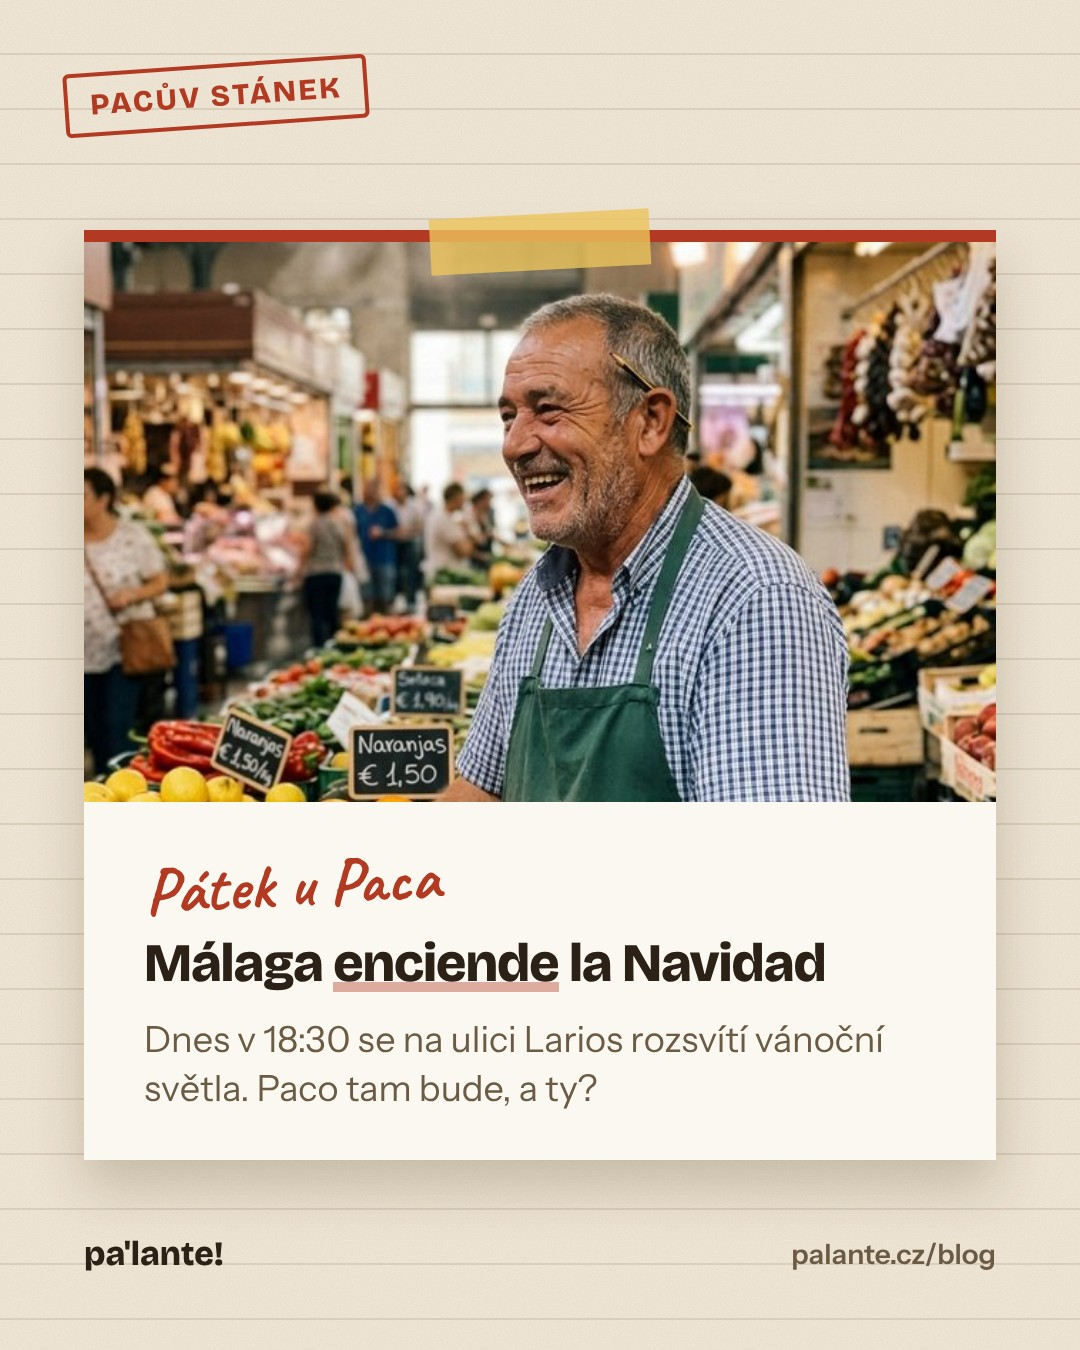
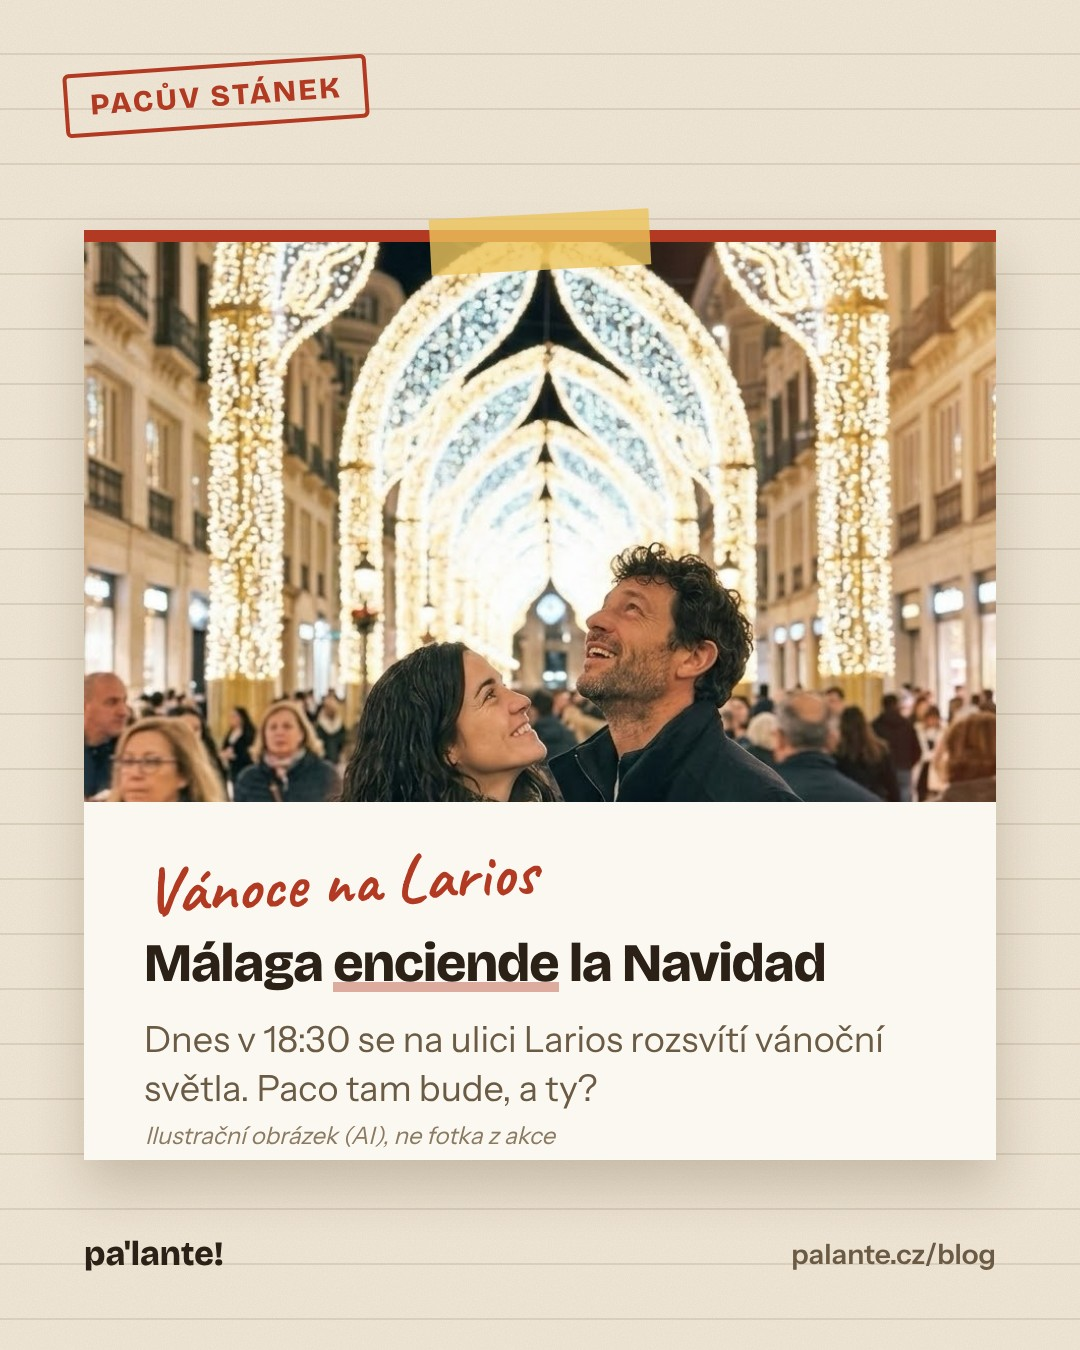
Vánoční článek: ilustrace Lucía a Rafa, nový obrázek pro sítě 27. 11.
Claude-Session: https://claude.ai/code/session_01VjxZctY8hW15fJ29jtMPQw

diff --git a/blog/malaga-rozsviti-vanoce-calle-larios-2026.html b/blog/malaga-rozsviti-vanoce-calle-larios-2026.html
@@ -14,9 +14,9 @@
 <meta property="og:title" content="Málaga dnes rozsvítí Vánoce | Pa&#x27;lante!">
 <meta property="og:description" content="V pátek 27. listopadu v 18:30 se na ulici Larios rozsvítí vánoční světla. Zahraje El Kanka a světelná show pak běží každý večer až do 4. ledna. Paco už ví, kde bude stát.">
 <meta property="og:url" content="https://palante.cz/blog/malaga-rozsviti-vanoce-calle-larios-2026.html">
-<meta property="og:image" content="https://palante.cz/media/paco.jpg">
+<meta property="og:image" content="https://palante.cz/media/lucia-rafa-larios.jpg">
 <meta name="twitter:card" content="summary_large_image">
-<script type="application/ld+json">{"@context": "https://schema.org", "@type": "BlogPosting", "headline": "Málaga dnes rozsvítí Vánoce", "description": "V pátek 27. listopadu v 18:30 se na ulici Larios rozsvítí vánoční světla. Zahraje El Kanka a světelná show pak běží každý večer až do 4. ledna. Paco už ví, kde bude stát.", "image": "https://palante.cz/media/paco.jpg", "url": "https://palante.cz/blog/malaga-rozsviti-vanoce-calle-larios-2026.html", "inLanguage": "cs", "publisher": {"@type": "Organization", "name": "Pa'lante! španělština", "url": "https://palante.cz/", "logo": "https://palante.cz/apple-touch-icon.png", "email": "info@palante.cz"}, "author": {"@type": "Organization", "name": "Pa'lante! španělština", "url": "https://palante.cz/", "logo": "https://palante.cz/apple-touch-icon.png", "email": "info@palante.cz"}, "datePublished": "2026-11-27"}</script>
+<script type="application/ld+json">{"@context": "https://schema.org", "@type": "BlogPosting", "headline": "Málaga dnes rozsvítí Vánoce", "description": "V pátek 27. listopadu v 18:30 se na ulici Larios rozsvítí vánoční světla. Zahraje El Kanka a světelná show pak běží každý večer až do 4. ledna. Paco už ví, kde bude stát.", "image": "https://palante.cz/media/lucia-rafa-larios.jpg", "url": "https://palante.cz/blog/malaga-rozsviti-vanoce-calle-larios-2026.html", "inLanguage": "cs", "publisher": {"@type": "Organization", "name": "Pa'lante! španělština", "url": "https://palante.cz/", "logo": "https://palante.cz/apple-touch-icon.png", "email": "info@palante.cz"}, "author": {"@type": "Organization", "name": "Pa'lante! španělština", "url": "https://palante.cz/", "logo": "https://palante.cz/apple-touch-icon.png", "email": "info@palante.cz"}, "datePublished": "2026-11-27"}</script>
 <meta name="description" content="V pátek 27. listopadu v 18:30 se na ulici Larios rozsvítí vánoční světla. Zahraje El Kanka a světelná show pak běží každý večer až do 4. ledna. Paco už ví, kde bude stát.">
 <link rel="stylesheet" href="/media/fonty/fonty.css">
 <style>:root{
@@ -139,7 +139,6 @@ article .pol.small{max-width:300px;margin:18px auto 22px;transform:rotate(1.5deg
 .shead-prihlasit{width:42px;height:42px;justify-content:center;border:1px solid rgba(251,248,241,.5);border-radius:999px}.shead-prihlasit span{display:none}
 .shead.open nav{display:flex}.shead nav a{padding:11px 4px;font-size:18px;border-top:1px solid rgba(251,248,241,.1)}}
 </style>
-<style id="img-auto">:where(img[width][height]){height:auto}</style>
 </head>
 <body>
 <header class="shead"><div class="shead-in"><a class="shead-logo" href="/index.html">pa<span>'</span>lante<span>!</span></a><nav id="shead-menu"><a href="/index.html#scena">Ukázka lekce</a><a href="/index.html#metoda">Metoda</a><a href="/index.html#test">Úrovně</a><a href="/index.html#produkty">Produkty</a><a href="/index.html#spanelsko">Španělsko</a><a href="/kontakt.html">Kontakt</a><a class="shead-menu-prihlasit" href="https://app.palante.cz/app/">Přihlásit se</a></nav><a class="shead-prihlasit" href="https://app.palante.cz/app/" aria-label="Přihlásit se do aplikace"><svg viewBox="0 0 24 24" aria-hidden="true"><path d="M12 12a4 4 0 1 0 0-8a4 4 0 0 0 0 8z M4 21c1-4 4-6 8-6s7 2 8 6" fill="none" stroke="currentColor" stroke-width="2" stroke-linecap="round"/></svg><span>Přihlásit se</span></a><a class="shead-btn" href="/index.html#zacni">Začni zdarma</a><button class="shead-menu" type="button" aria-expanded="false" aria-controls="shead-menu" aria-label="Menu"><svg viewBox="0 0 24 24" aria-hidden="true"><path d="M3 6h18M3 12h18M3 18h18" stroke="currentColor" stroke-width="2" stroke-linecap="round"/></svg></button></div></header>
@@ -149,7 +148,7 @@ article .pol.small{max-width:300px;margin:18px auto 22px;transform:rotate(1.5deg
   <h1>Málaga dnes rozsvítí Vánoce</h1>
   <p class="h1es" lang="es">Málaga enciende la Navidad</p>
   <p class="lead">V pátek 27. listopadu v 18:30 se na ulici Larios rozsvítí vánoční světla. Zahraje El Kanka a světelná show pak běží každý večer až do 4. ledna. Paco už ví, kde bude stát.</p>
-  <figure class="pol tape"><img width="640" height="857" src="../media/paco.jpg" alt="Paco u svého stánku" loading="lazy"><figcaption>Paco u svého stánku</figcaption></figure>
+  <figure class="pol tape"><img src="../media/lucia-rafa-larios.jpg" alt="Ilustrační obrázek (AI): Lucía a Rafa pod vánočními světly na ulici Larios. Nejde o fotku z akce." loading="lazy"><figcaption>Ilustrační obrázek (AI): Lucía a Rafa pod vánočními světly na ulici Larios. Nejde o fotku z akce.</figcaption></figure>
   <div class="mode" role="group" aria-label="Překlad"><span>Čti nejdřív španělsky.</span><button type="button" data-m="es" aria-pressed="true">Překlad na klepnutí</button><button type="button" data-m="cz" aria-pressed="false">Vždy s překladem</button></div>
   <div class="body"><div class="par"><p class="es" lang="es">El <button type="button" class="w" data-cz="pátek">viernes</button> 27 de noviembre, a las 18:30, Málaga <button type="button" class="w" data-cz="rozsvítí">enciende</button> sus <button type="button" class="w" data-cz="vánoční světla">luces de Navidad</button> en la calle Larios, junto a la <button type="button" class="w" data-cz="socha">estatua</button> del Marqués de Larios. La <button type="button" class="w" data-cz="vstup">entrada</button> es <button type="button" class="w" data-cz="zdarma">gratis</button>.</p><button type="button" class="tr" aria-expanded="false" aria-controls="cz0">Ukázat česky</button><p class="cz" id="cz0" lang="cs" hidden>V pátek 27. listopadu v 18:30 rozsvítí Málaga vánoční světla na ulici Larios, u sochy markýze z Larios. Vstup je zdarma.</p></div><div class="par"><p class="es" lang="es">Hay un <button type="button" class="w" data-cz="koncert">concierto</button> gratis de El Kanka, un <button type="button" class="w" data-cz="zpěvák">cantante</button> de Málaga.</p><button type="button" class="tr" aria-expanded="false" aria-controls="cz1">Ukázat česky</button><p class="cz" id="cz1" lang="cs" hidden>Bude koncert zdarma, zahraje El Kanka, zpěvák z Málagy.</p></div><div class="par"><p class="es" lang="es">Este año hay 2,8 millones de <button type="button" class="w" data-cz="světelné body">puntos de luz</button> LED. La calle Larios tiene 384 <button type="button" class="w" data-cz="mašle">lazos</button> rojos y 512 <button type="button" class="w" data-cz="koule">bolas</button>.</p><button type="button" class="tr" aria-expanded="false" aria-controls="cz2">Ukázat česky</button><p class="cz" id="cz2" lang="cs" hidden>Letos svítí 2,8 milionu LED bodů. Na ulici Larios visí 384 červených mašlí a 512 koulí.</p></div><div class="par"><p class="es" lang="es">En Larios hay un <button type="button" class="w" data-cz="show">espectáculo</button> de luz y música tres veces al día: a las 18:30, a las 20:30 y a las 22:00. Es hasta el 4 de enero.</p><button type="button" class="tr" aria-expanded="false" aria-controls="cz3">Ukázat česky</button><p class="cz" id="cz3" lang="cs" hidden>Na Larios je světelná a hudební show třikrát denně: v 18:30, ve 20:30 a ve 22:00. Běží do 4. ledna.</p></div><div class="par"><p class="es" lang="es">Y desde el sábado 28, en la <button type="button" class="w" data-cz="katedrála">catedral</button>: un videomapping, "El cielo desciende", de 8 a 10 minutos, a las 19:00, a las 20:30 y a las 22:00 (no el 24 ni el 31 de diciembre).</p><button type="button" class="tr" aria-expanded="false" aria-controls="cz4">Ukázat česky</button><p class="cz" id="cz4" lang="cs" hidden>A od soboty 28. listopadu na katedrále: videomapping „Nebe sestupuje“, 8 až 10 minut, v 19:00, ve 20:30 a ve 22:00 (kromě 24. a 31. prosince).</p></div></div>
   <div class="mine"><h3>Tvoje slovíčka z článku</h3><ul></ul></div>

diff --git a/blog/index.html b/blog/index.html
@@ -147,7 +147,7 @@ article .pol.small{max-width:300px;margin:18px auto 22px;transform:rotate(1.5deg
   <h1>Španělsko zblízka</h1>
   <p class="lead">Jídlo, pití, výlety a dobré zprávy ze Španělska. Každý článek má slovíčka a krátký rozhovor našich postav, takže se u čtení učíš. Všechny údaje mají uvedený zdroj.</p>
   <p style="margin-top:22px;display:flex;gap:12px;flex-wrap:wrap"><a class="btn" href="dobre-zpravy.html">Dobré zprávy ze Španělska</a><a class="btn" href="co-se-deje.html" style="background:transparent;color:var(--ink);border:2px solid currentColor">Co se děje ve Španělsku</a></p>
-  <div class="grid"><a class="card" href="malaga-rozsviti-vanoce-calle-larios-2026.html" style="--c:var(--red)"><img width="640" height="857" src="../media/paco.jpg" alt="" loading="lazy" onerror="this.onerror=null;this.src='../media/paco.jpg'"><div class="in"><div class="meta"><span class="rub">Pacův stánek</span><span>Andalusie</span></div><h2>Málaga dnes rozsvítí Vánoce</h2><p>V pátek 27. listopadu v 18:30 se na ulici Larios rozsvítí vánoční světla. Zahraje El Kanka a světelná show pak běží každý večer až do 4. ledna. Paco už ví, kde bude stát.</p></div></a><a class="card" href="andalusie-za-krevetami-huelva-sanlucar-garrucha.html" style="--c:var(--blue)"><img width="768" height="1376" src="../media/honza-rafa-plaz.jpg" alt="" loading="lazy" onerror="this.onerror=null;this.src='../media/honza-rafa-plaz.jpg'"><div class="in"><div class="meta"><span class="rub">Honza vyráží</span><span>Andalusie</span></div><h2>Za krevetami po andaluském pobřeží</h2><p>Huelva, Sanlúcar a Garrucha: tři místa, tři krevety. A slavnost krevet v Punta Umbría má teď šanci na oficiální titul turistické zajímavosti Andalusie.</p></div></a><a class="card" href="aceite-nuevo-snidane-po-andalusku.html" style="--c:var(--green)"><img width="1376" height="768" src="../media/trznice.jpg" alt="" loading="lazy" onerror="this.onerror=null;this.src='../media/trznice.jpg'"><div class="in"><div class="meta"><span class="rub">Lucía nalévá</span><span>Andalusie</span></div><h2>Nový olivový olej a snídaně po andalusku</h2><p>Na podzim začíná ve Španělsku sklizeň oliv a letos má být bohatá. Lucía k tomu u baru podává to nejandaluštější ráno: chleba, olej, rajče a kafe.</p></div></a><a class="card" href="guia-repsol-2026-tri-slunce.html" style="--c:var(--red)"><img width="700" height="466" src="/media/blog/1656423521731-9665583f100c-700.jpg" alt="" loading="lazy" onerror="this.onerror=null;this.src='../media/table.webp'"><div class="in"><div class="meta"><span class="rub">Pacův stánek</span><span>Galicie · Madrid · Mallorca</span></div><h2>Tři nová „slunce“: kam na jídlo podle Guía Repsol 2026</h2><p>Španělsko má vlastního průvodce po restauracích a místo hvězdiček rozdává slunce. Letos přibyly tři restaurace s nejvyšším hodnocením. Paco to komentuje po svém.</p></div></a><a class="card" href="barcelona-svetove-hlavni-mesto-architektury-2026.html" style="--c:var(--blue)"><img width="700" height="1050" src="/media/blog/1770323169830-703c8c80a758-700.jpg" alt="" loading="lazy" onerror="this.onerror=null;this.src='../media/honza-mapa.jpg'"><div class="in"><div class="meta"><span class="rub">Honza vyráží</span><span>Katalánsko</span></div><h2>Barcelona je v roce 2026 světovým hlavním městem architektury</h2><p>Celý rok 2026 patří Barcelona architektuře. Program běží do 13. prosince, takže Honza ještě stihne vyrazit. Hlavně kvůli Gaudímu, samozřejmě.</p></div></a><a class="card" href="sladke-vino-z-malagy.html" style="--c:var(--green)"><img width="700" height="1244" src="/media/blog/1775896782839-43a7f1187afd-700.jpg" alt="" loading="lazy" onerror="this.onerror=null;this.src='../media/lucia-bar.jpg'"><div class="in"><div class="meta"><span class="rub">Lucía nalévá</span><span>Andalusie</span></div><h2>Sladké víno z Málagy: hrozny sušené na slunci</h2><p>Málaga není jen pláž a espetos. Víno se tu dělá přes pět set let a chráněné označení původu má od roku 1932. Lucía vysvětluje, proč je tak sladké.</p></div></a></div>
+  <div class="grid"><a class="card" href="malaga-rozsviti-vanoce-calle-larios-2026.html" style="--c:var(--red)"><img src="../media/lucia-rafa-larios.jpg" alt="" loading="lazy" onerror="this.onerror=null;this.src='../media/lucia-rafa-larios.jpg'"><div class="in"><div class="meta"><span class="rub">Pacův stánek</span><span>Andalusie</span></div><h2>Málaga dnes rozsvítí Vánoce</h2><p>V pátek 27. listopadu v 18:30 se na ulici Larios rozsvítí vánoční světla. Zahraje El Kanka a světelná show pak běží každý večer až do 4. ledna. Paco už ví, kde bude stát.</p></div></a><a class="card" href="andalusie-za-krevetami-huelva-sanlucar-garrucha.html" style="--c:var(--blue)"><img width="768" height="1376" src="../media/honza-rafa-plaz.jpg" alt="" loading="lazy" onerror="this.onerror=null;this.src='../media/honza-rafa-plaz.jpg'"><div class="in"><div class="meta"><span class="rub">Honza vyráží</span><span>Andalusie</span></div><h2>Za krevetami po andaluském pobřeží</h2><p>Huelva, Sanlúcar a Garrucha: tři místa, tři krevety. A slavnost krevet v Punta Umbría má teď šanci na oficiální titul turistické zajímavosti Andalusie.</p></div></a><a class="card" href="aceite-nuevo-snidane-po-andalusku.html" style="--c:var(--green)"><img width="1376" height="768" src="../media/trznice.jpg" alt="" loading="lazy" onerror="this.onerror=null;this.src='../media/trznice.jpg'"><div class="in"><div class="meta"><span class="rub">Lucía nalévá</span><span>Andalusie</span></div><h2>Nový olivový olej a snídaně po andalusku</h2><p>Na podzim začíná ve Španělsku sklizeň oliv a letos má být bohatá. Lucía k tomu u baru podává to nejandaluštější ráno: chleba, olej, rajče a kafe.</p></div></a><a class="card" href="guia-repsol-2026-tri-slunce.html" style="--c:var(--red)"><img width="700" height="466" src="/media/blog/1656423521731-9665583f100c-700.jpg" alt="" loading="lazy" onerror="this.onerror=null;this.src='../media/table.webp'"><div class="in"><div class="meta"><span class="rub">Pacův stánek</span><span>Galicie · Madrid · Mallorca</span></div><h2>Tři nová „slunce“: kam na jídlo podle Guía Repsol 2026</h2><p>Španělsko má vlastního průvodce po restauracích a místo hvězdiček rozdává slunce. Letos přibyly tři restaurace s nejvyšším hodnocením. Paco to komentuje po svém.</p></div></a><a class="card" href="barcelona-svetove-hlavni-mesto-architektury-2026.html" style="--c:var(--blue)"><img width="700" height="1050" src="/media/blog/1770323169830-703c8c80a758-700.jpg" alt="" loading="lazy" onerror="this.onerror=null;this.src='../media/honza-mapa.jpg'"><div class="in"><div class="meta"><span class="rub">Honza vyráží</span><span>Katalánsko</span></div><h2>Barcelona je v roce 2026 světovým hlavním městem architektury</h2><p>Celý rok 2026 patří Barcelona architektuře. Program běží do 13. prosince, takže Honza ještě stihne vyrazit. Hlavně kvůli Gaudímu, samozřejmě.</p></div></a><a class="card" href="sladke-vino-z-malagy.html" style="--c:var(--green)"><img width="700" height="1244" src="/media/blog/1775896782839-43a7f1187afd-700.jpg" alt="" loading="lazy" onerror="this.onerror=null;this.src='../media/lucia-bar.jpg'"><div class="in"><div class="meta"><span class="rub">Lucía nalévá</span><span>Andalusie</span></div><h2>Sladké víno z Málagy: hrozny sušené na slunci</h2><p>Málaga není jen pláž a espetos. Víno se tu dělá přes pět set let a chráněné označení původu má od roku 1932. Lucía vysvětluje, proč je tak sladké.</p></div></a></div>
   <div class="cta"><p><b>Chceš takhle španělštinu každý den?</b> Začínáš od nuly? 5 krátkých lekcí z Málagy e-mailem. Už něco umíš? 5 dní členství od své úrovně. Obojí zdarma.</p><a class="btn" href="../index.html#zacni">Začni zdarma</a></div>
 </div></main>
 <footer class="ruled"><div class="wrap">
